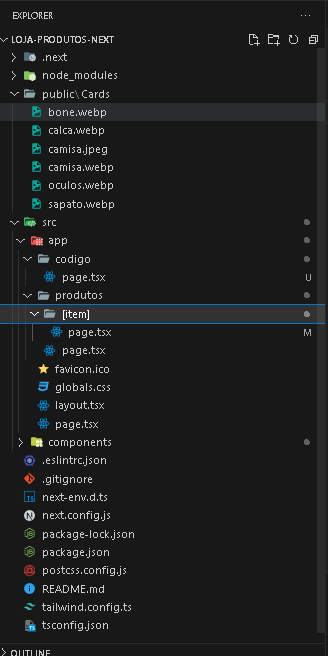
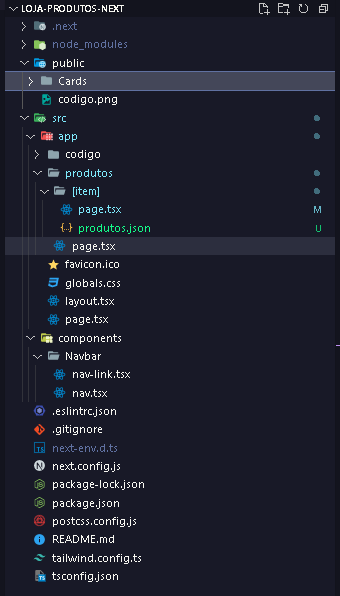
Updated

diff --git a/src/app/produtos/[item]/page.tsx b/src/app/produtos/[item]/page.tsx
@@ -1,40 +1,10 @@
 import Image from "next/image";
 import Link from "next/link";
 import React from "react";
+import itens from "./produtos.json"
 
 export default function page({ params }) {
-  const itens = [
-    {
-      nome: "Boné",
-      item: "bone",
-      descricao: "Um boné muito bonito",
-      img: "/Cards/bone.webp",
-    },
-    {
-      nome: "Calça",
-      item: "calca",
-      descricao: "Uma calça muito bonita",
-      img: "/Cards/calca.webp",
-    },
-    {
-      nome: "Camisa",
-      item: "camisa",
-      descricao: "Uma camisa muito bonita",
-      img: "/Cards/camisa.webp",
-    },
-    {
-      nome: "Óculos",
-      item: "oculos",
-      descricao: "Um óculos muito bonito",
-      img: "/Cards/oculos.webp",
-    },
-    {
-      nome: "Sapato",
-      item: "sapato",
-      descricao: "Um sapato muito bonito",
-      img: "/Cards/sapato.webp",
-    },
-  ];
+  //const itens = produtos
   const item = itens.find((item) => item.item === params.item);
   return (
     <div className="flex mt-4 items-center justify-center flex-col w-screen gap-y-2 px-4">

diff --git a/src/app/codigo/page.tsx b/src/app/codigo/page.tsx
@@ -4,7 +4,7 @@ import React from 'react'
 export default function codigo() {
   return (
     <div className='bg-cinza-escuro flex items-center justify-center'>
-        <Image className='w-80' width={328} height={656} src="/codigo.png" alt="Código Fonte"/>
+        <Image className='w-80' width={340} height={596} src="/codigo.png" alt="Código Fonte"/>
     </div>
   )
 }

diff --git a/src/app/globals.css b/src/app/globals.css
@@ -7,5 +7,5 @@
 }
 
 body {
-    @apply bg-cinza-escuro text-white
+    @apply bg-cinza-escuro text-white w-screen overflow-x-hidden
 }
